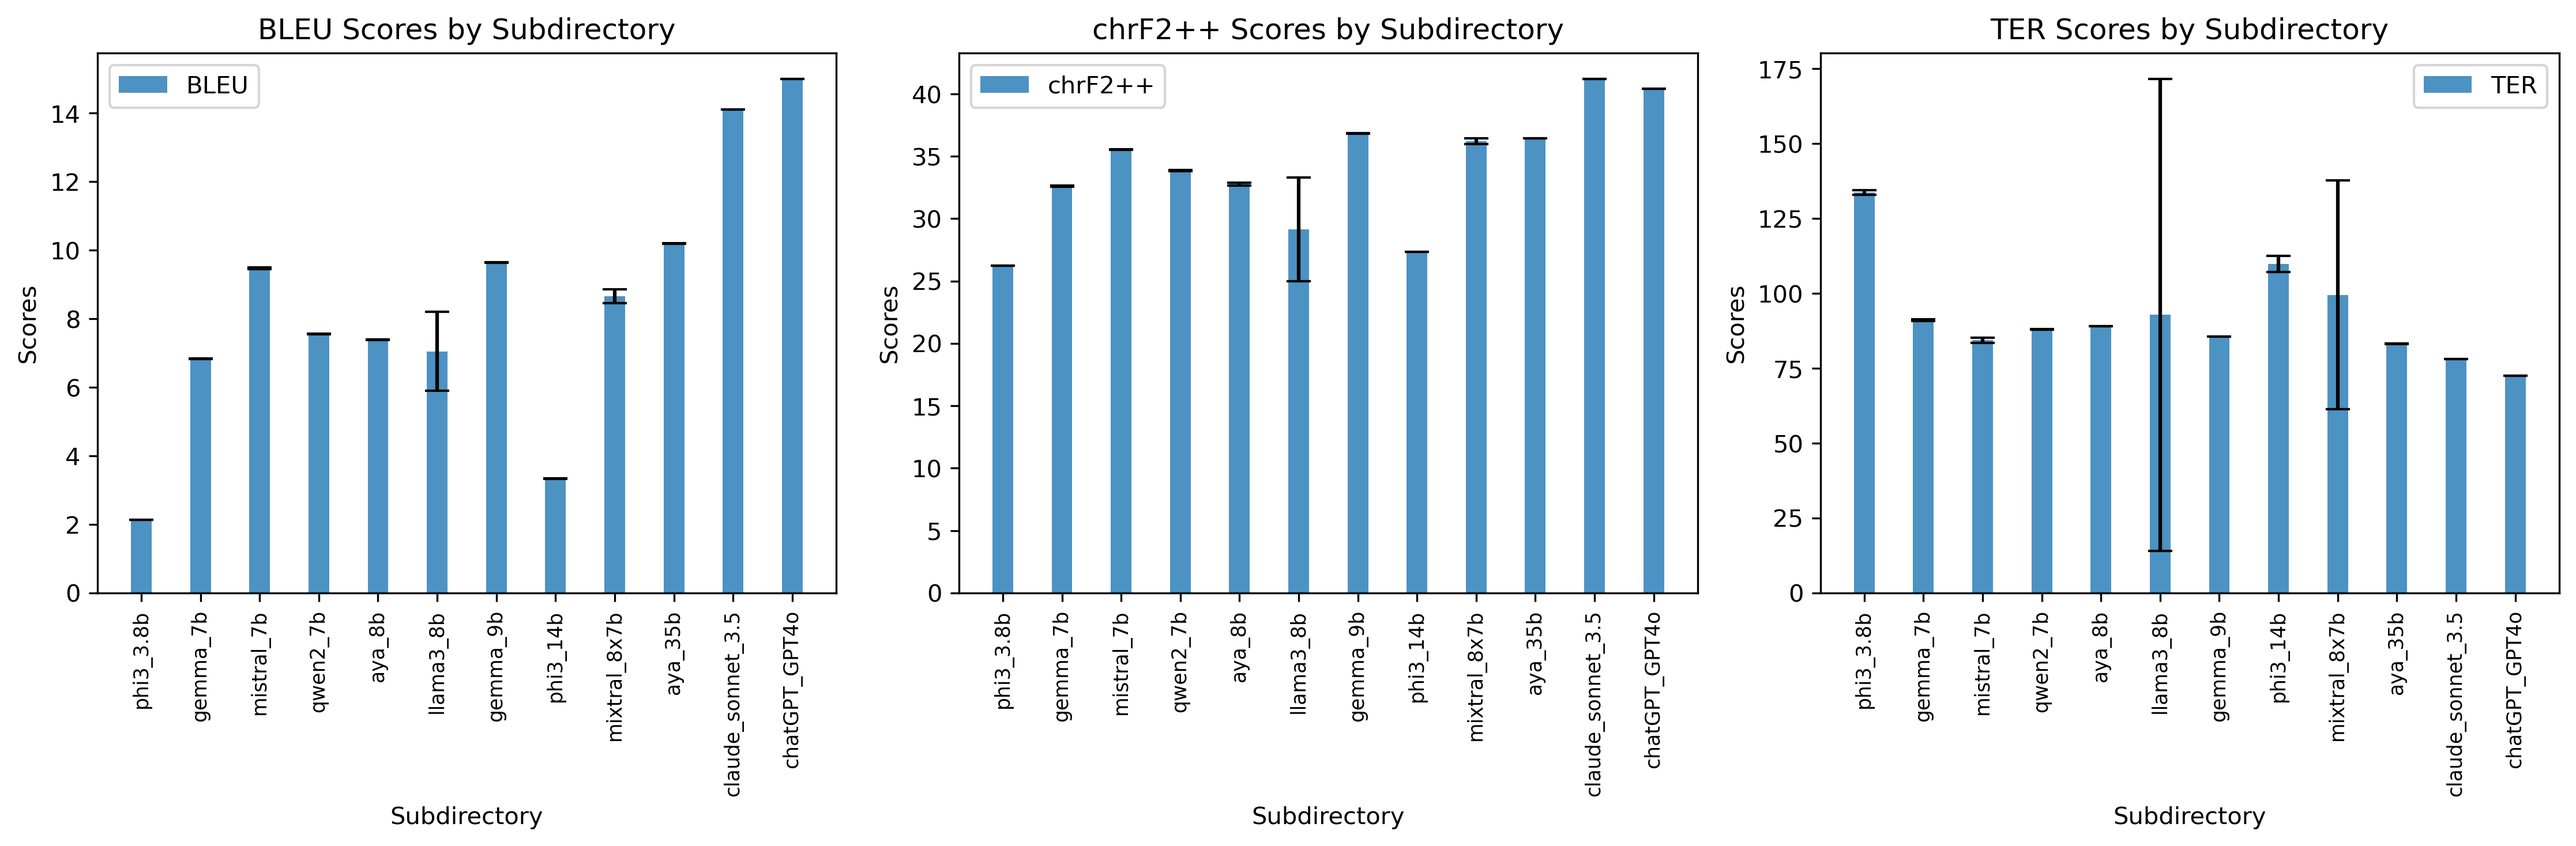
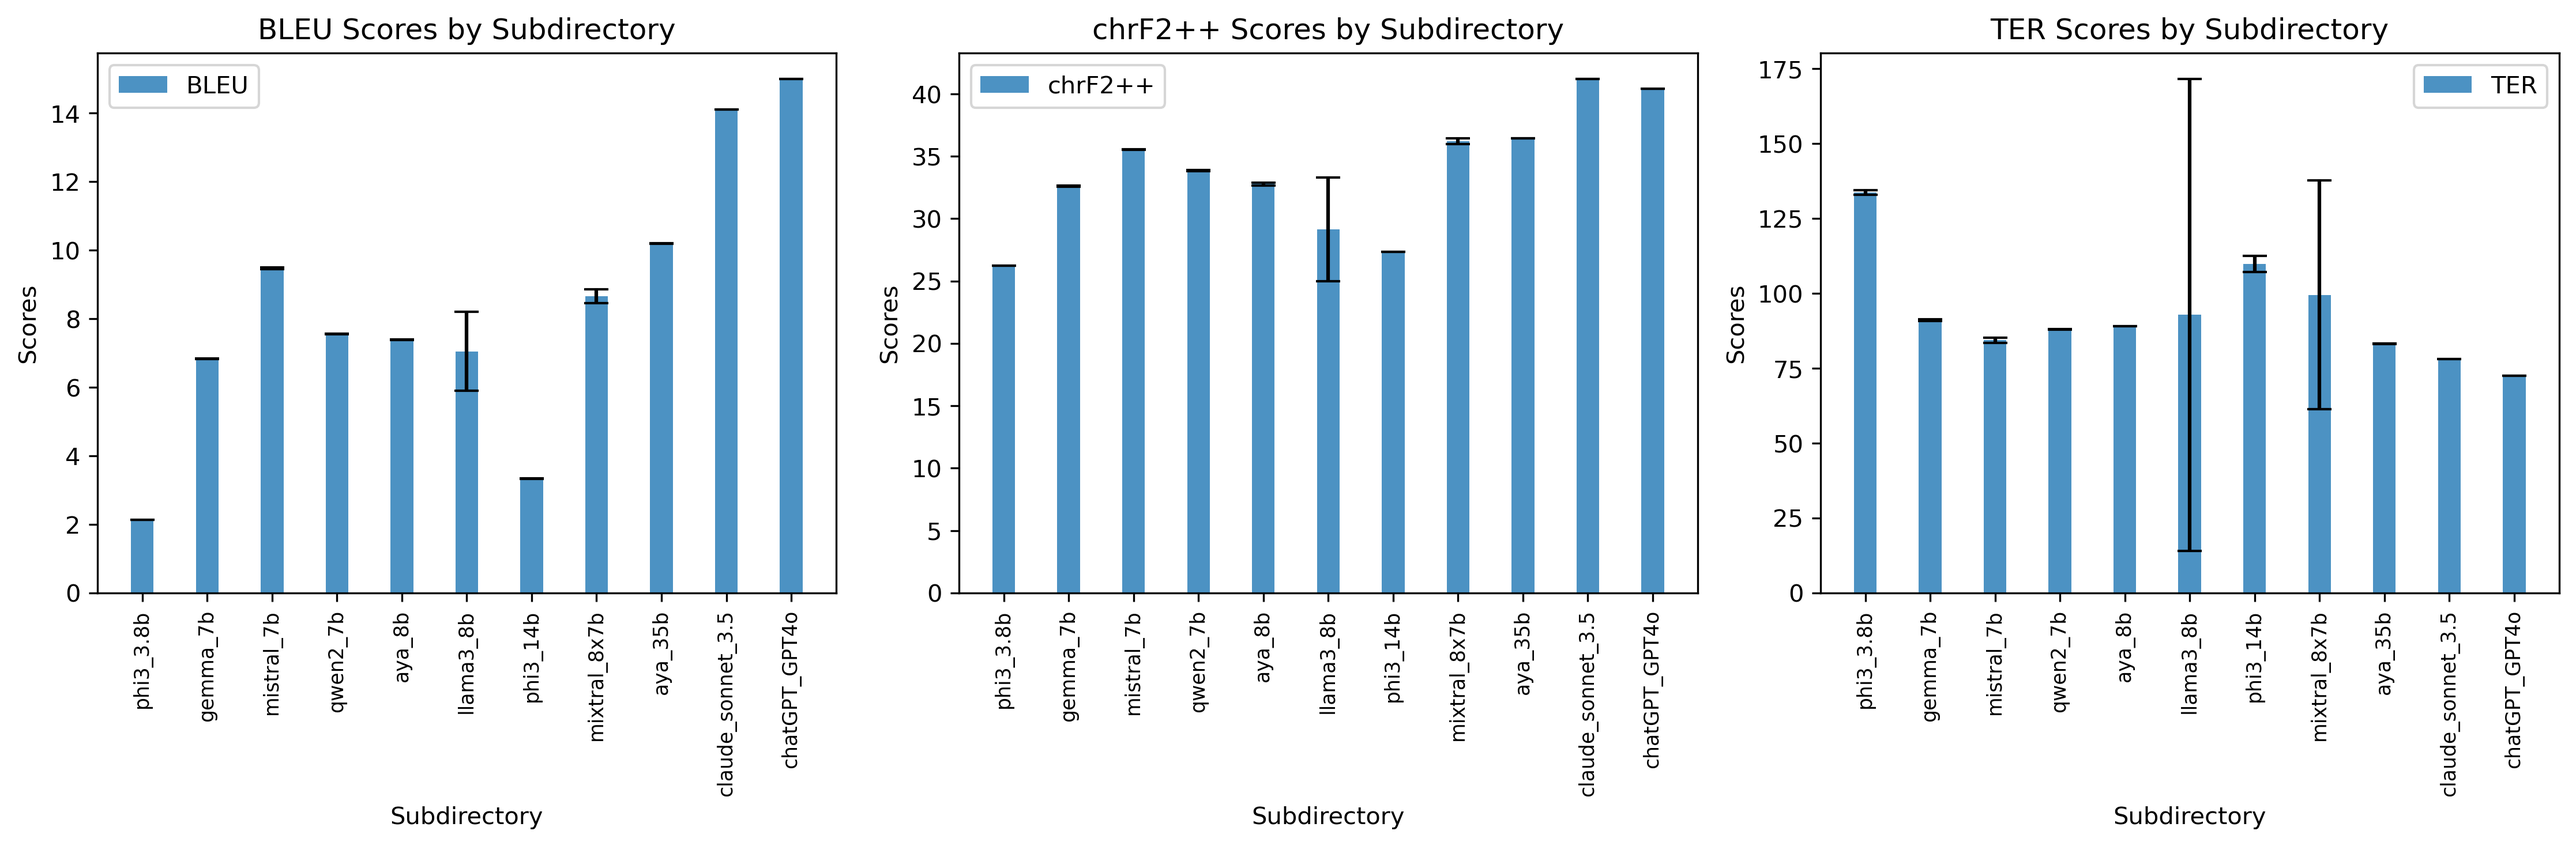
correct typo

diff --git a/plot_metrics.py b/plot_metrics.py
@@ -74,7 +74,7 @@ def main():
         elif subdir == 'gemma':
             all_scores['gemma_7b'] = extract_scores(scores_dir)
         elif subdir == 'gemma2':
-            all_scores['gemma_9b'] = extract_scores(scores_dir)
+            all_scores['gemma2_9b'] = extract_scores(scores_dir)
         elif subdir == 'llama3':
             all_scores['llama3_8b'] = extract_scores(scores_dir, '8b')
 #            all_scores['phi3_14b'] = extract_scores(scores_dir, '14b')
@@ -87,7 +87,6 @@ def main():
         # else:
         #     all_scores[subdir] = extract_scores(scores_dir)
 
-    print(len(all_scores))
     plot_scores(all_scores, model_order_by_size)
 
 
